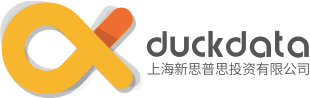
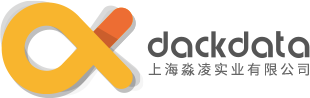
update company name

Changed region(s): [[0.4645, 0.3061, 1.0, 0.6122], [0.4645, 0.6122, 1.0, 0.7959]]

diff --git a/index.html b/index.html
@@ -1,7 +1,7 @@
 <!DOCTYPE html >
 <html lang="en">
 <head>
-    <title>上海新思普思</title>
+    <title>上海淼凌实业有限公司</title>
     <meta http-equiv="Content-Type" content="text/html;charset=utf-8" />
     <meta name="viewport" content="width=device-width, initial-scale=1">
     <link rel="stylesheet" href="bower_components/bootstrap/dist/css/bootstrap.css">
@@ -90,7 +90,7 @@
 
 <footer>
     <ul class="footer nav">
-        <li>上海新思普思 © 2012-2015 All Rights Reserved.</li>
+        <li>上海淼凌实业有限公司 © 2012-2015 All Rights Reserved.</li>
     </ul>
 </footer>
 </body>
